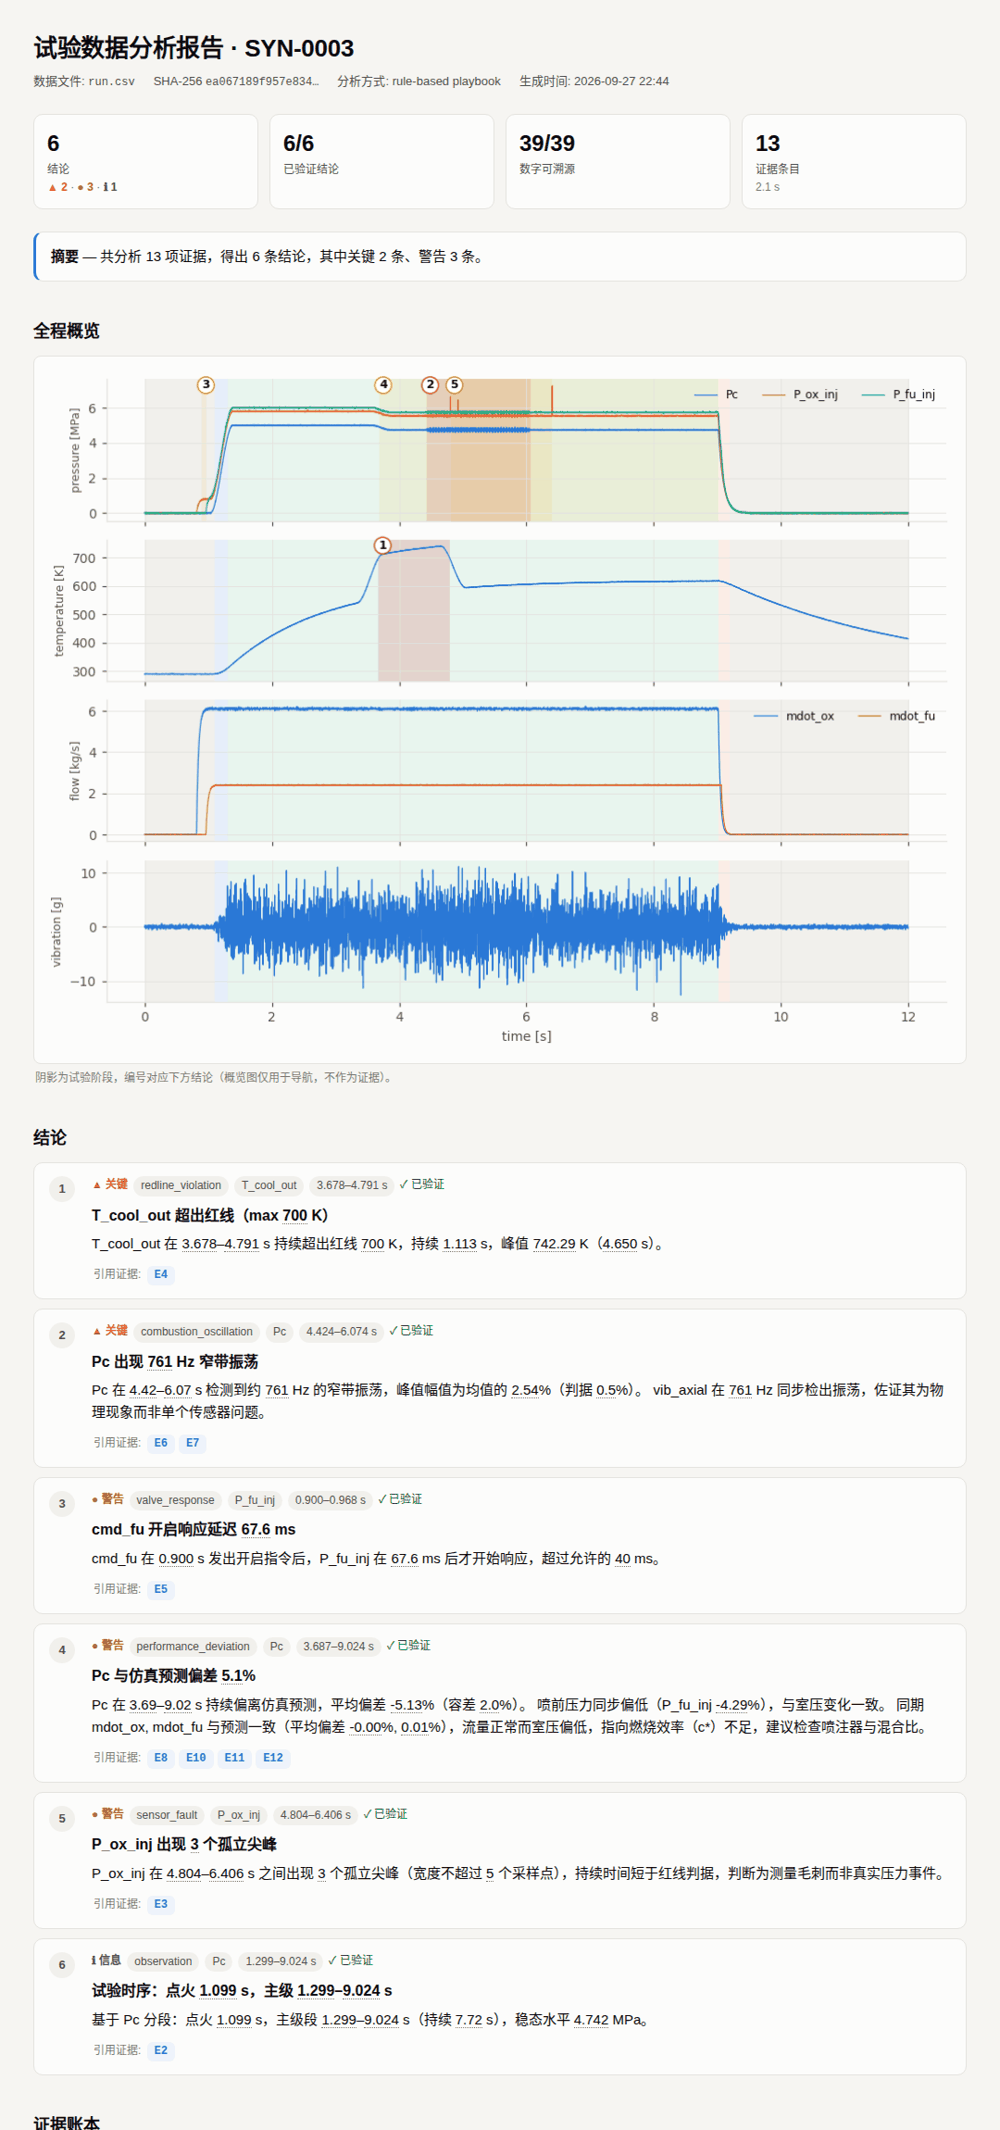
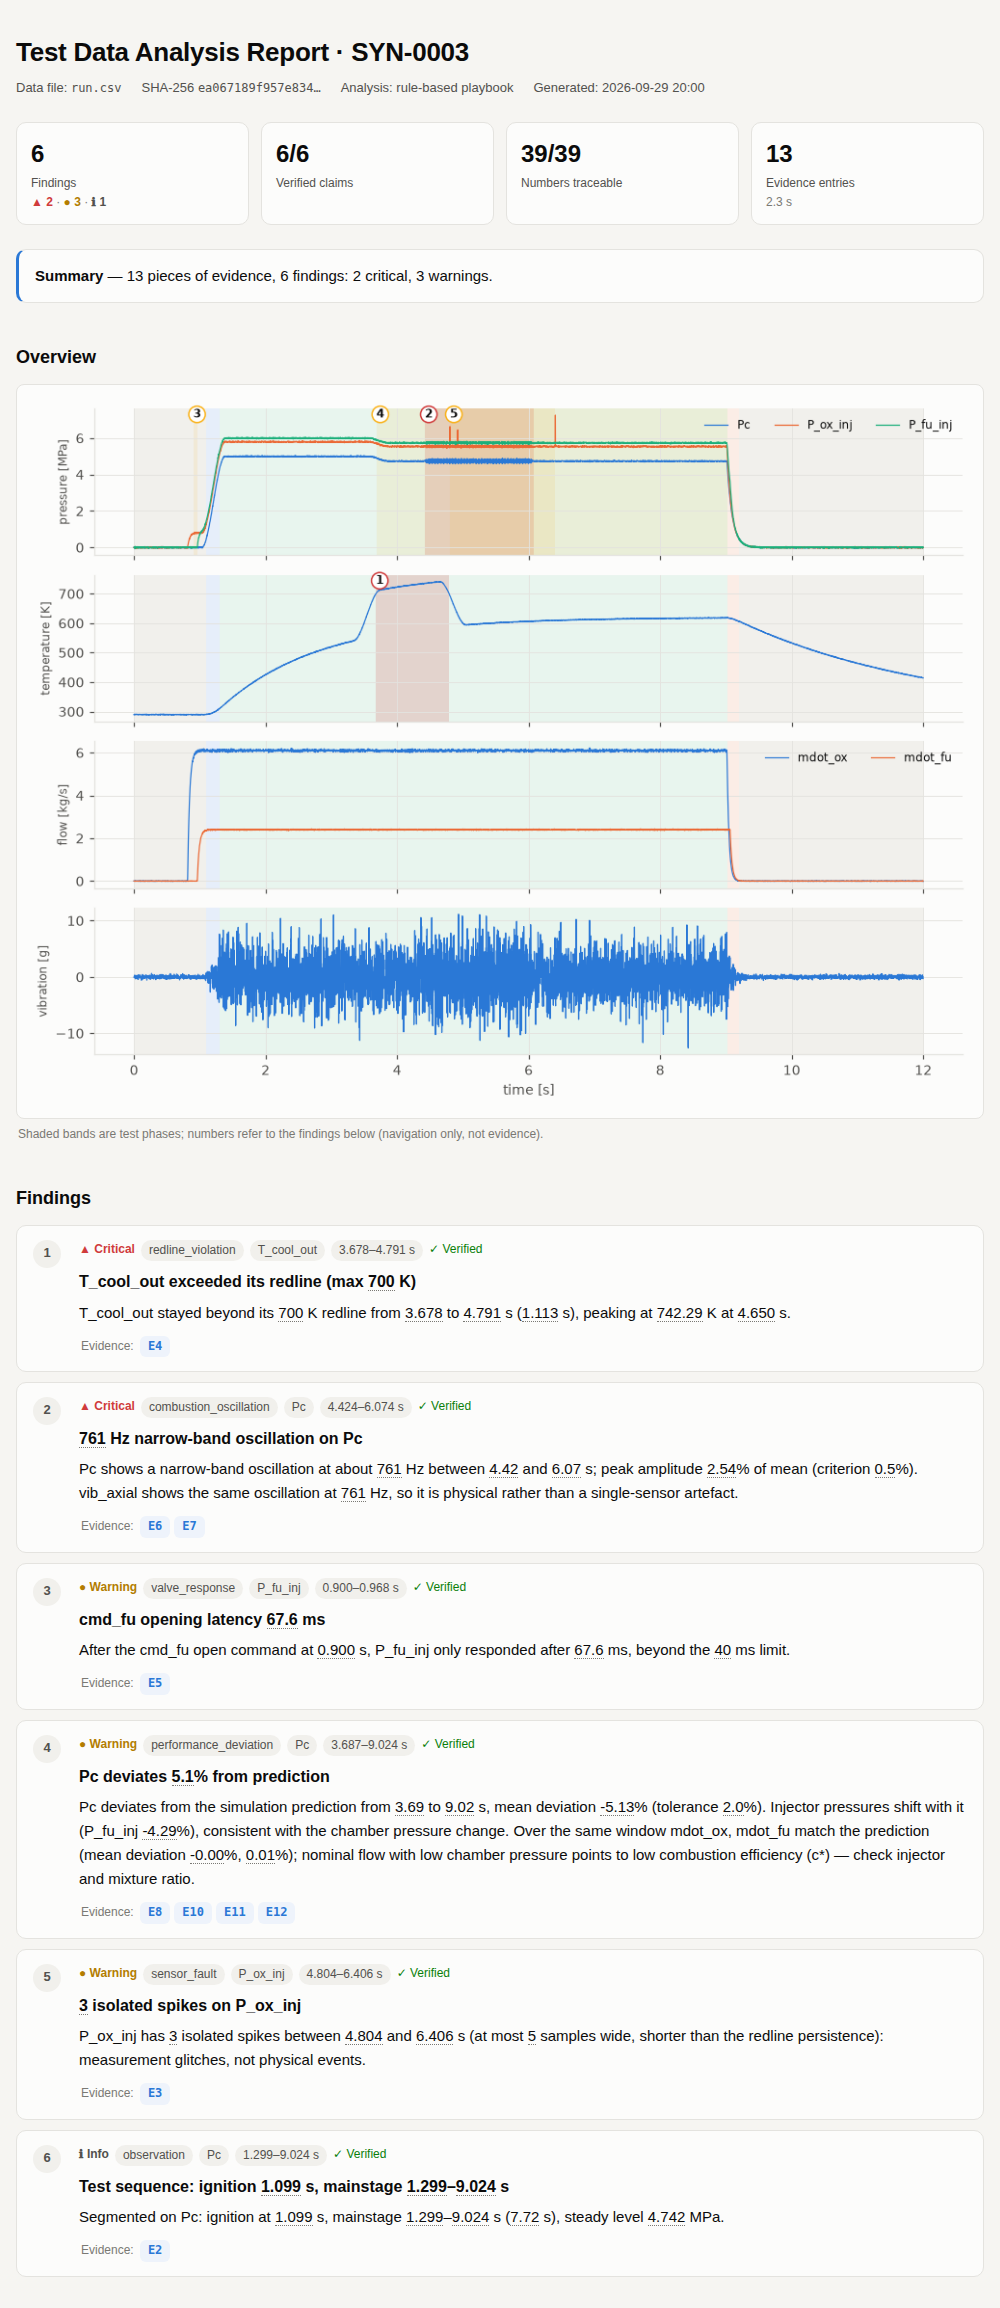
English report screenshot for the English README
docs/report_screenshot.png is now the English report (same synthetic run,
SYN-0003); the Chinese screenshot moves to report_screenshot_zh.png and the
Chinese README points to it. The PyPI page links the unversioned path on
main, so it picks up the English image without a new release.

Claude-Session: https://claude.ai/code/session_015BBGeKiZdMeVL8W1zfTB8n

diff --git a/README.zh-CN.md b/README.zh-CN.md
@@ -8,7 +8,7 @@
 
 名字取自 *grounded*（每个数字都有依据）和 *redline*（红线判读）。
 
-![report](docs/report_screenshot.png)
+![report](docs/report_screenshot_zh.png)
 
 把一次发动机热试车（或任何台架试验）的数据交给 Groundline，它会完成工况分段、传感器健康检查、红线判读、阀门响应、振荡检测和仿真对比，然后写出分析报告。和一般的 "AI 分析" 不同的是：
 
